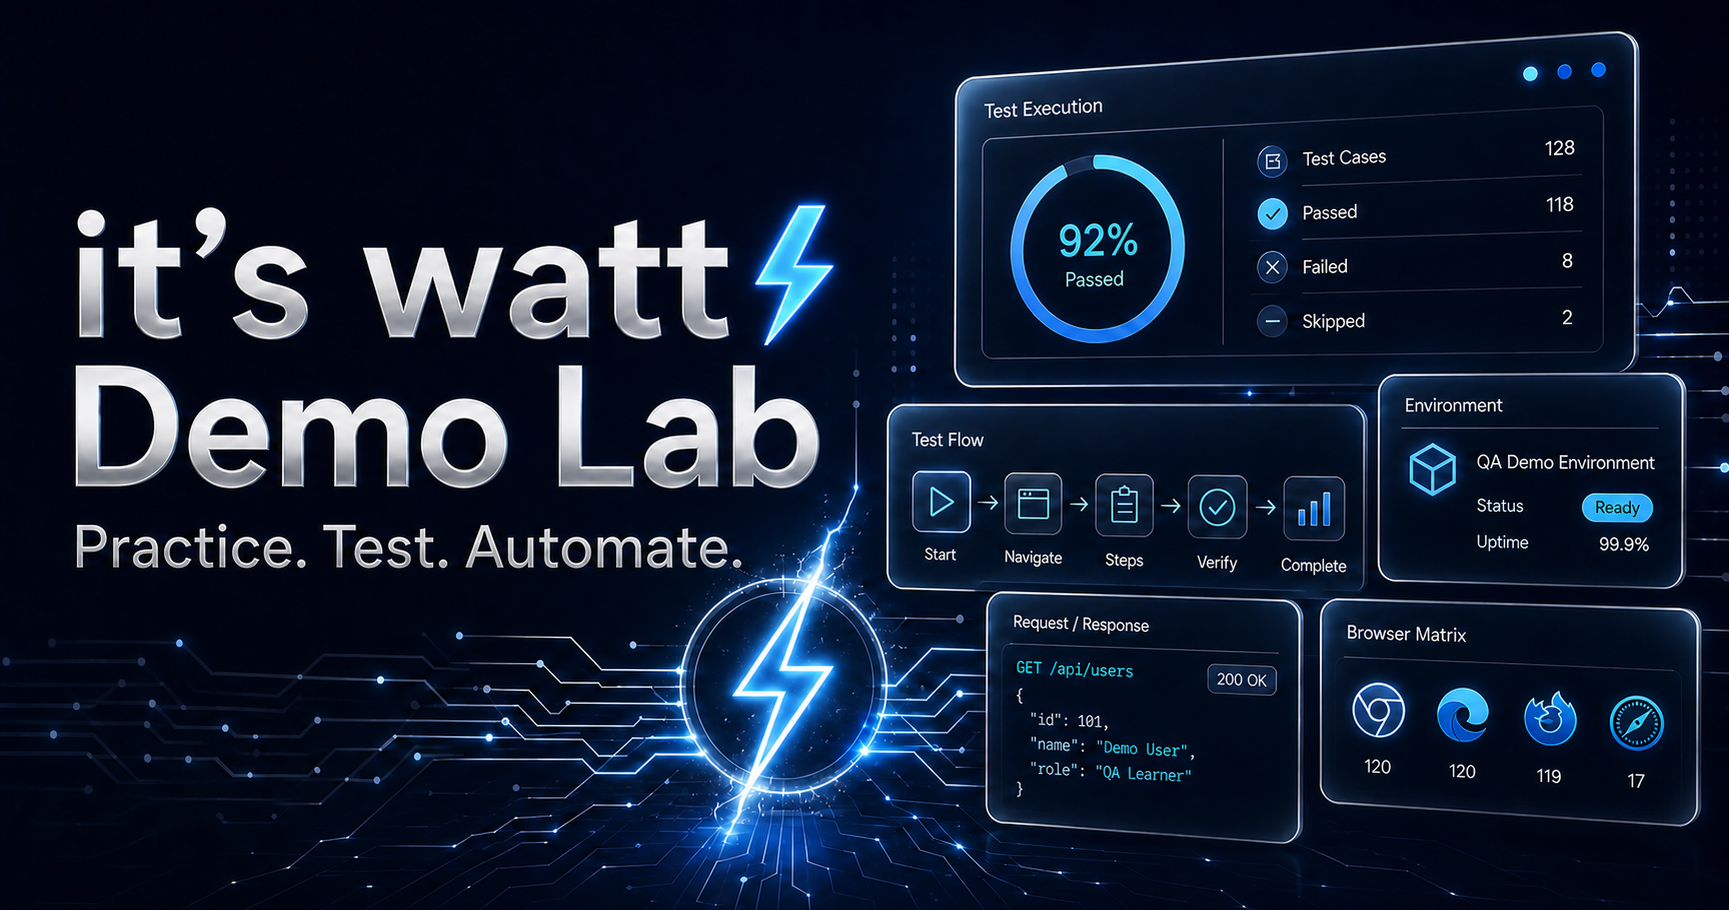
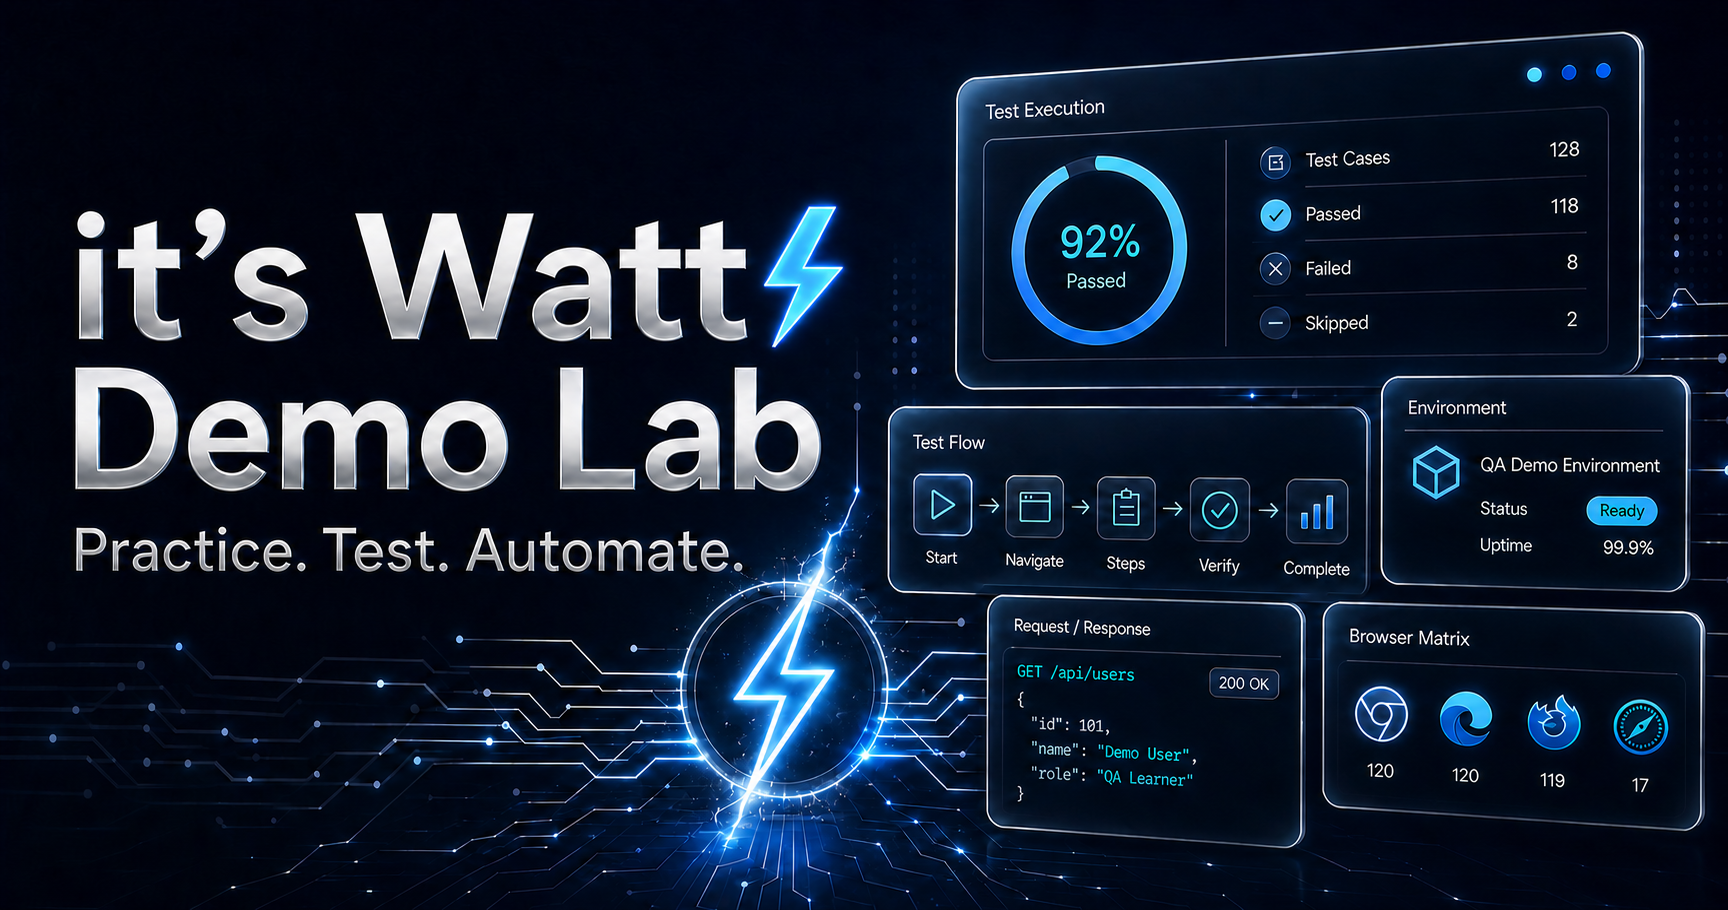
Capitalize Watt in share images

diff --git a/dist/index.html b/dist/index.html
@@ -28,8 +28,8 @@
       gtag('config', 'G-QF3WNFTNYH');
     </script>
     <title>it’s Wattϟ | Smarter Answers. Better Software.</title>
-    <script type="module" crossorigin src="/assets/index-9kw1Jr0M.js"></script>
-    <link rel="stylesheet" crossorigin href="/assets/index-DsVbkT_r.css">
+    <script type="module" crossorigin src="/assets/index-D6qIx9CF.js"></script>
+    <link rel="stylesheet" crossorigin href="/assets/index-DJtoMzzU.css">
   </head>
   <body>
     <a class="skip-link" href="#content">Skip to content</a>
